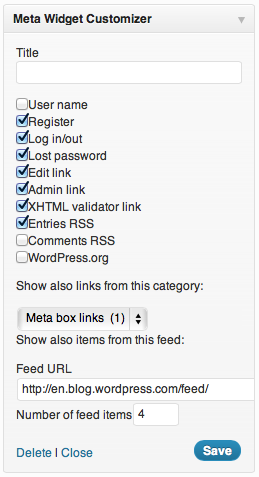
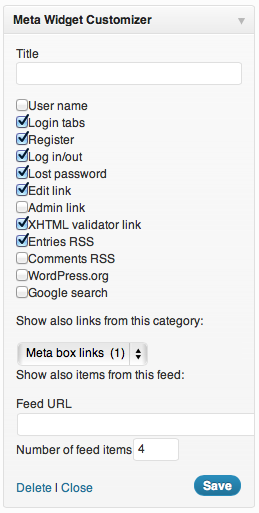
Preparation for 0.4
git-svn-id: https://plugins.svn.wordpress.org/meta-widget-customizer/trunk@624896 b8457f37-d9ea-0310-8a92-e5e31aec5664

diff --git a/meta-widget-customizer.php b/meta-widget-customizer.php
@@ -31,6 +31,11 @@ License: GPL2
 class Meta_Widget_Customizer {
 
 	function register() {
+	    wp_register_style('meta-widget-customizer-style', plugins_url( 'meta-widget-customizer.css', __FILE__ ));
+	    wp_enqueue_style('meta-widget-customizer-style');
+		wp_enqueue_script('jquery');
+		wp_register_script('meta-widget-customizer-script', plugins_url( 'meta-widget-customizer.js', __FILE__ ));
+		wp_enqueue_script('meta-widget-customizer-script');
 		wp_register_sidebar_widget('meta_widget_customizer', 'Meta Widget Customizer', array('Meta_Widget_Customizer', 'widget'));
 		wp_register_widget_control('meta_widget_customizer', 'Meta Widget Customizer', array('Meta_Widget_Customizer', 'control'));
 	}
@@ -47,15 +52,78 @@ class Meta_Widget_Customizer {
 		    get_currentuserinfo();
         	?><li><a href="/wp-admin/profile.php"><?php echo "$current_user->display_name"; ?></a></li><?php
         }
-        if (! empty($data['register'])) {
-	        wp_register();	    	
-	    }
-	    if (! empty($data['login'])) {
-	        ?><li><?php wp_loginout();
-	    }
-        if (! empty($data['lostpassword']) && (! is_user_logged_in())) {
-	    	?><li><a href="<?php echo wp_lostpassword_url( get_permalink() ); ?>" title="Lost Password">Lost Password</a></li><?php
-	    }
+        if (! empty($data['logintabs'])) { ?>
+			<div id="tabs_container">
+				<ul id="tabs">
+					<li class="active"><a href="#login"><?php _e('Login'); ?></a></li>
+					<li><a href="#register"><?php _e('Register'); ?></a></li>
+					<li><a href="#lostpassword"><?php _e('Lost password'); ?></a></li>
+				</ul>
+			</div>
+			<div id="tabs_content_container">
+				<?php  if(! is_user_logged_in()) { ?>  
+			    <div id="login" class="tab_content" style="display: block;">
+					<form name="loginform" id="loginform" action="<?php echo wp_login_url(); ?>" method="post">
+						<p>
+							<label for="user_login"><?php _e('Username'); ?><br />
+							<input type="text" name="log" id="user_login" class="input" value="" size="20" tabindex="10" /></label>
+						</p>
+						<p>
+							<label for="user_pass"><?php _e('Password'); ?><br />
+							<input type="password" name="pwd" id="user_pass" class="input" value="" size="20" tabindex="20" /></label>
+						</p>
+						<p class="forgetmenot"><label for="rememberme"><input name="rememberme" type="checkbox" id="rememberme" value="forever" tabindex="90" /> <?php _e('Remember Me'); ?></label></p>
+						<p class="submit">
+							<input type="hidden" name="redirect_to" value="<?php echo(site_url( $_SERVER['REQUEST_URI'] )); ?>" />
+							<input type="submit" name="wp-submit" id="wp-submit" class="button-primary" value="<?php _e('Log In'); ?>" tabindex="100" />
+							<input type="hidden" name="testcookie" value="1" />
+						</p>
+					</form>
+			    </div>
+				<?php  }
+				if(get_option('users_can_register') && (! is_user_logged_in())) { ?>  
+			    <div id="register" class="tab_content">
+					<form name="registerform" id="registerform" action="<?php echo site_url(); ?>/wp-login.php?action=register" method="post">
+						<p>
+							<label for="user_login"><?php _e('Username'); ?><br />
+							<input type="text" name="user_login" id="user_login" class="input" value="" size="20" tabindex="10" /></label>
+						</p>
+						<p>
+							<label for="user_email"><?php _e('E-mail'); ?><br />
+							<input type="email" name="user_email" id="user_email" class="input" value="" size="25" tabindex="20" /></label>
+						</p>
+						<p id="reg_passmail"><?php _e('A password will be e-mailed to you.'); ?></p>
+						<br class="clear" />
+						<input type="hidden" name="redirect_to" value="<?php echo(site_url( $_SERVER['REQUEST_URI'] )); ?>" />
+						<p class="submit"><input type="submit" name="wp-submit" id="wp-submit" class="button-primary" value="<?php _e('Register'); ?>" tabindex="100" /></p>
+					</form>
+				</div>
+				<?php } 
+				if  (! is_user_logged_in()) { ?>
+			    <div id="lostpassword" class="tab_content">
+					<form name="lostpasswordform" id="lostpasswordform" action="<?php echo wp_lostpassword_url(); ?>" method="post">
+						<p>
+							<label for="user_login" ><?php _e('Username or E-mail:'); ?><br />
+							<input type="text" name="user_login" id="user_login" class="input" value="" size="20" tabindex="10" /></label>
+						</p>
+						<input type="hidden" name="redirect_to" value="<?php echo(site_url( $_SERVER['REQUEST_URI'] )); ?>" />
+						<p class="submit"><input type="submit" name="wp-submit" id="wp-submit" class="button-primary" value="<?php _e('Get New Password'); ?>" tabindex="100" /></p>
+					</form>
+				</div>
+				<?php } ?>
+			</div> <?php
+        }
+        else {
+	        if (! empty($data['register'])) {
+		        wp_register();	    	
+		    }
+		    if (! empty($data['login'])) {
+		        ?><li><?php wp_loginout();
+		    }
+	        if (! empty($data['lostpassword']) && (! is_user_logged_in())) {
+		    	?><li><a href="<?php echo wp_lostpassword_url( get_permalink() ); ?>" title="Lost Password">Lost Password</a></li><?php
+		    }
+		}
 	    if (! empty($data['editlink']) && (is_user_logged_in()) && is_page()) {
 	    	edit_post_link(__('Edit page'), '<li>', '</li>');
 	    }
@@ -79,12 +147,20 @@ class Meta_Widget_Customizer {
 	    }
         if (! empty($data['googlesearch'])) {
 	    ?>
-			<form method="get" id="googlesitesearch" action="https://www.google.com/search">
-				<fieldset>
-					<input type="text" name="q" class="searchquery" value="" />
-					<input type="hidden" name="as_sitesearch" class="searchsite" value="<?php echo site_url(); ?>" />
-					<input type="submit" name="btnG" value="<?php _e('Search'); ?>" />
-				</fieldset>
+			<form method="get" id="googlesitesearch" action="http://www.google.com/search">
+				<table border="0" cellpadding="0">
+					<tr>
+						<td>
+							<input type="text" id="googlesitesearchtext" name="q" maxlength="255" value="" />
+						</td>
+					</tr>
+					<tr>
+						<td align="center" style="font-size:75%">
+							<input type="submit" id="googlesitesearchsubmit" value="<?php _e('Search'); ?>" />
+							<input type="checkbox" id="googlesitesearchcheck" name="sitesearch" value="<?php echo site_url(); ?>" checked /><?php _e('only this site'); ?><br />
+						</td>
+					</tr>
+				</table>
 			</form>
 		<?php
 		}
@@ -120,6 +196,7 @@ class Meta_Widget_Customizer {
                 <p><label for="meta_widget_customizer_title"><?php echo __('Title'); ?></label><input id="meta_widget_customizer_title" name="meta_widget_customizer_title" class="widefat" type="text" value="<?php echo $data['title']; ?>" /></p>
                 <p>
                 <input id="meta_widget_customizer_username" name="meta_widget_customizer_username" type="checkbox" value="1" <?php checked('1', $data['username']); ?> /><label for="meta_widget_customizer_username"><?php echo __('User name'); ?></label><br>
+                <input id="meta_widget_customizer_logintabs" name="meta_widget_customizer_logintabs" type="checkbox" value="1" <?php checked('1', $data['logintabs']); ?> /><label for="meta_widget_customizer_logintabs"><?php echo __('Login tabs'); ?></label><br>
                 <input id="meta_widget_customizer_register" name="meta_widget_customizer_register" type="checkbox" value="1" <?php checked('1', $data['register']); ?> /><label for="meta_widget_customizer_register"><?php echo __('Register'); ?></label><br>
                 <input id="meta_widget_customizer_login" name="meta_widget_customizer_login" type="checkbox" value="1" <?php checked('1', $data['login']); ?> /><label for="meta_widget_customizer_login"><?php echo __('Log in/out'); ?></label><br>
                 <input id="meta_widget_customizer_lostpassword" name="meta_widget_customizer_lostpassword" type="checkbox" value="1" <?php checked('1', $data['lostpassword']); ?> /><label for="meta_widget_customizer_lostpassword"><?php echo __('Lost password'); ?></label><br>
@@ -140,6 +217,7 @@ class Meta_Widget_Customizer {
 		if (isset($_POST['meta_widget_customizer_title'])) {
 			$data['title'] = attribute_escape($_POST['meta_widget_customizer_title']);
 			$data['username'] = attribute_escape($_POST['meta_widget_customizer_username']);
+			$data['logintabs'] = attribute_escape($_POST['meta_widget_customizer_logintabs']);
 			$data['register'] = attribute_escape($_POST['meta_widget_customizer_register']);
 			$data['login'] = attribute_escape($_POST['meta_widget_customizer_login']);
 			$data['lostpassword'] = attribute_escape($_POST['meta_widget_customizer_lostpassword']);
@@ -161,6 +239,7 @@ class Meta_Widget_Customizer {
 		// Add default values
 	    $defaults = array( 'title' => 'Meta',
 	    			   'username' => 0,
+	                   'logintabs' => 0,
 	                   'register' => 1,
 	                   'login' => 1,
 	                   'lostpassword' => 0,
@@ -209,6 +288,7 @@ class Meta_Widget_Customizer {
 
 				<p>The following links are always available in the widget administration:</p>
                 <input id="meta_widget_customizer_username" name="meta_widget_customizer[username]" type="checkbox" value="1" <?php if (isset($data['username'])) { checked('1', $data['username']); } ?> /><label for="meta_widget_customizer_username"><?php echo __('User name'); ?></label><br>
+                <input id="meta_widget_customizer_logintabs" name="meta_widget_customizer[logintabs]" type="checkbox" value="1" <?php if (isset($data['logintabs'])) { checked('1', $data['logintabs']); } ?> /><label for="meta_widget_customizer_logintabs"><?php echo __('Login tabs'); ?></label><br>
                 <input id="meta_widget_customizer_register" name="meta_widget_customizer[register]" type="checkbox" value="1" <?php if (isset($data['register'])) { checked('1', $data['register']); } ?> /><label for="meta_widget_customizer_register"><?php echo __('Register'); ?></label><br>
                 <input id="meta_widget_customizer_login" name="meta_widget_customizer[login]" type="checkbox" value="1" <?php if (isset($data['login'])) { checked('1', $data['login']); } ?> /><label for="meta_widget_customizer_login"><?php echo __('Log in/out'); ?></label><br>
                 <input id="meta_widget_customizer_lostpassword" name="meta_widget_customizer[lostpassword]" type="checkbox" value="1" <?php if (isset($data['lostpassword'])) { checked('1', $data['lostpassword']); } ?> /><label for="meta_widget_customizer_lostpassword"><?php echo __('Lost password'); ?></label><br>
